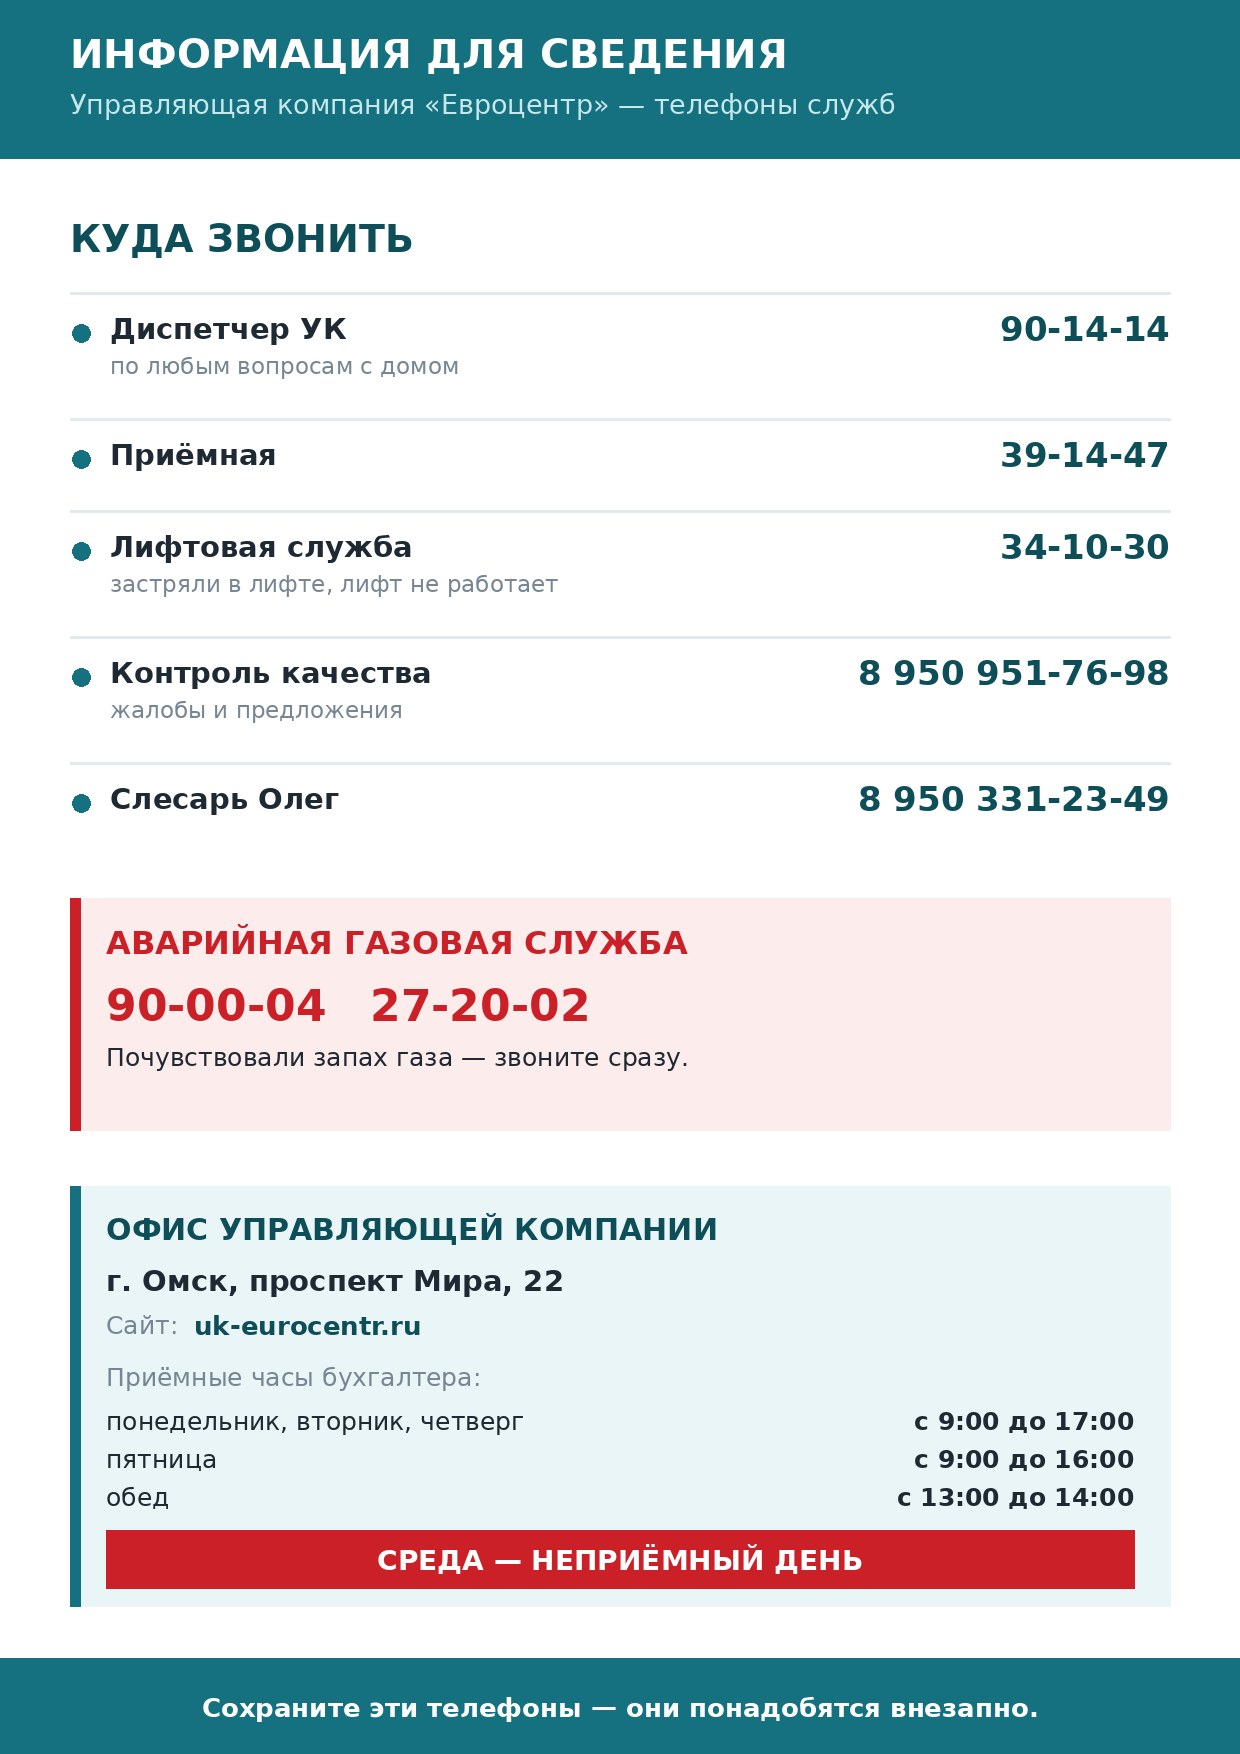
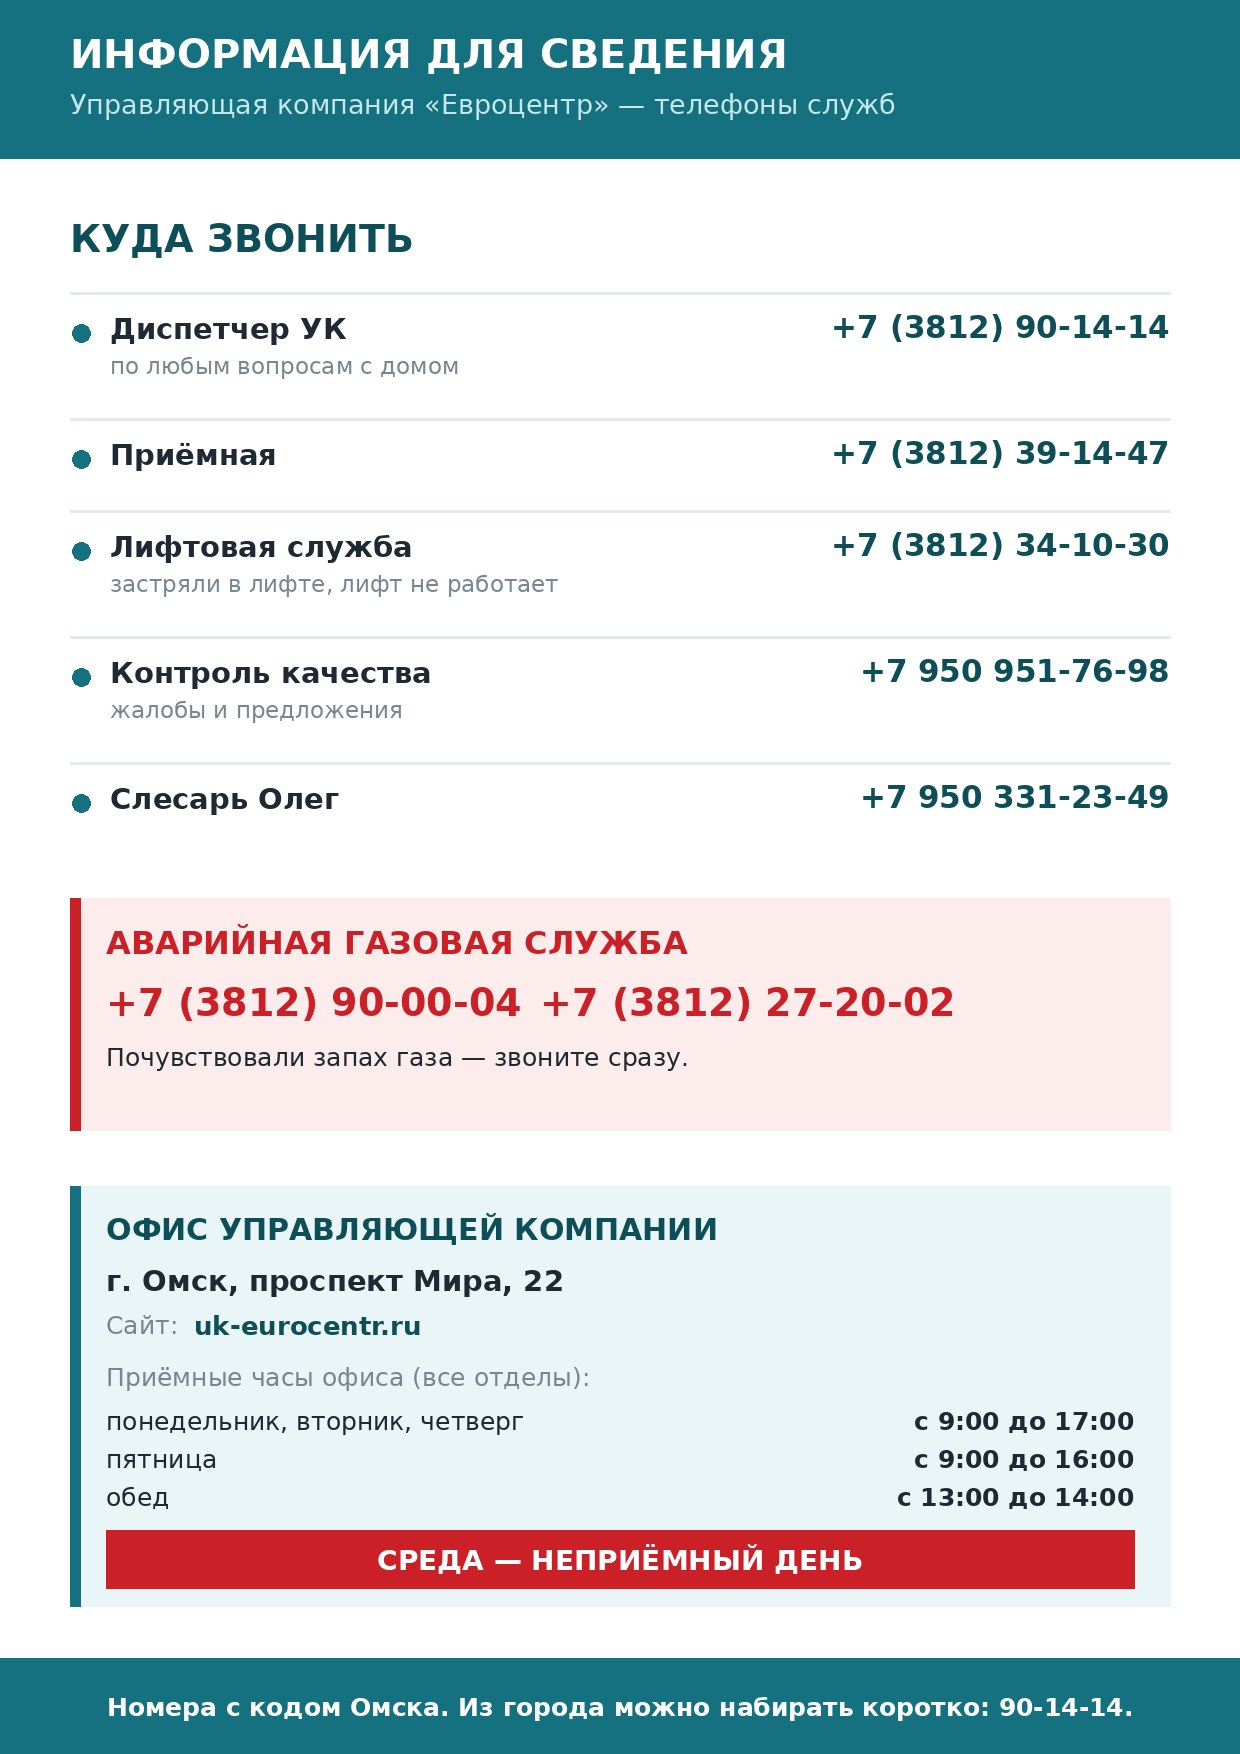
Памятка УК: часы приёма всего офиса и номера с кодом Омска
Председатель уточнила: пн/вт/чт 9–17, пт 9–16, среда неприёмная — это
часы приёма всего офиса, не только бухгалтерии. Подпись исправлена и в
памятке, и на картинке.

Телефоны служб записаны с кодом Омска: +7 3812 90-14-14 и так далее.
Обычным текстом, а не в <code>, — так Телеграм распознаёт их как номера
и житель звонит нажатием, не копируя вручную. Короткий городской набор
упомянут отдельной строкой, чтобы он не потерялся.

Claude-Session: https://claude.ai/code/session_01SicRex17FsgKWUCP5fdcWj

diff --git a/content/faq/uk-evrocentr.md b/content/faq/uk-evrocentr.md
@@ -1,28 +1,30 @@
 ---
 title: Телефоны управляющей компании «Евроцентр»
 category: contacts
-keywords: телефон, телефоны, номер, позвонить, звонить, куда звонить, контакты, контакт, служба, службы, управляющая, компания, ук, евроцентр, диспетчер, диспетчерская, приёмная, приемная, офис, адрес, мира, авария, аварийная, аварийку, газ, газом, газовая, запах газа, утечка, лифт, лифте, лифта, лифтовая, застрял, застряла, не работает, жалоба, жалобы, пожаловаться, претензия, предложение, качество, слесарь, сантехник, олег, мастер, бухгалтер, бухгалтерия, часы, приёмные часы, режим работы, сайт, интернет
+keywords: телефон, телефоны, номер, позвонить, звонить, куда звонить, контакты, контакт, служба, службы, управляющая, компания, ук, евроцентр, диспетчер, диспетчерская, приёмная, приемная, офис, адрес, мира, авария, аварийная, аварийку, газ, газом, газовая, запах газа, утечка, лифт, лифте, лифта, лифтовая, застрял, застряла, не работает, жалоба, жалобы, пожаловаться, претензия, предложение, качество, слесарь, сантехник, олег, мастер, бухгалтер, бухгалтерия, часы, приёмные часы, режим работы, работает, открыт, сайт, интернет
 image: uk-evrocentr.jpg
 order: 10
 ---
 Дом обслуживает управляющая компания <b>«Евроцентр»</b>. Офис — г. Омск, проспект Мира, 22.
 
 <b>Куда звонить</b>
-• Диспетчер УК — <code>90-14-14</code>. Сюда по любым вопросам с домом.
-• Приёмная — <code>39-14-47</code>
-• Лифтовая служба — <code>34-10-30</code>. Застряли в лифте или лифт не работает.
-• Контроль качества — <code>89509517698</code>. Сюда жалобы и предложения.
-• Слесарь Олег — <code>89503312349</code>
+• Диспетчер УК — +7 3812 90-14-14. Сюда по любым вопросам с домом.
+• Приёмная — +7 3812 39-14-47
+• Лифтовая служба — +7 3812 34-10-30. Застряли в лифте или лифт не работает.
+• Контроль качества — +7 950 951-76-98. Сюда жалобы и предложения.
+• Слесарь Олег — +7 950 331-23-49
+
+Номера даны с кодом Омска — нажмите на номер, чтобы позвонить. Из города можно набирать и коротко: 90-14-14.
 
 <b>Аварийная газовая служба</b>
-<code>90-00-04</code> и <code>27-20-02</code>
++7 3812 90-00-04 и +7 3812 27-20-02
 Почувствовали запах газа — звоните сразу, в любое время суток. Не ждите утра и не пытайтесь искать утечку сами.
 
 <b>Сайт управляющей компании</b>
 <a href="https://uk-eurocentr.ru/">uk-eurocentr.ru</a>
 
-<b>Приёмные часы бухгалтера</b>
-Офис на проспекте Мира, 22:
+<b>Приёмные часы офиса</b>
+Проспект Мира, 22 — часы приёма для всех отделов, в том числе бухгалтерии:
 • понедельник, вторник, четверг — с 9:00 до 17:00
 • пятница — с 9:00 до 16:00
 • обед — с 13:00 до 14:00
